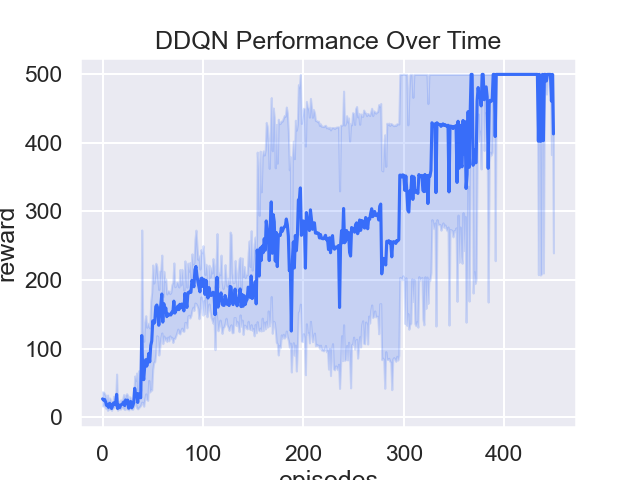
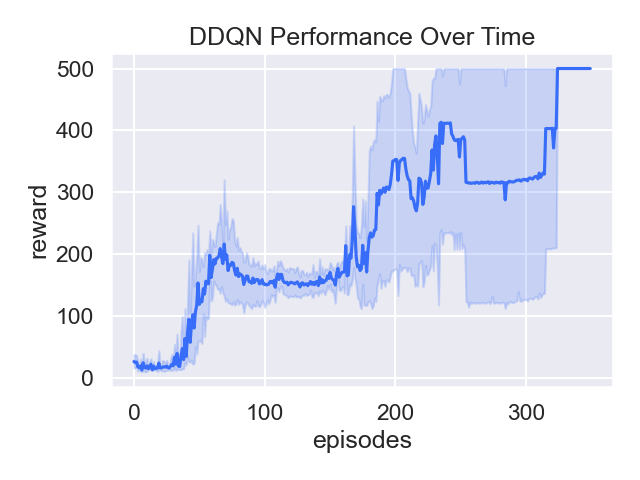
ddqn hyperparameter tuning and better plots

diff --git a/src/agents/ddqn.py b/src/agents/ddqn.py
@@ -351,10 +351,10 @@ if __name__ == "__main__":
     BATCH_SIZE = 64
     GAMMA = 0.99
     EPS_START = 0.9
-    EPS_END = 0.05
-    EPS_DECAY = 1000
+    EPS_END = 0.005
+    EPS_DECAY = 1200
     TAU = 0.005
-    LR = 1e-3
+    LR = 0.001
 
     # Get the number of dimensions of the observation space 
     # and the number of available actions
@@ -362,7 +362,7 @@ if __name__ == "__main__":
     n_actions = env.action_space.n
 
     # Set the number of episodes
-    num_episodes = 450
+    num_episodes = 350
 
     # Declare a list to store the performance of the algorithm over seeds
     episode_durations_over_seeds = []
